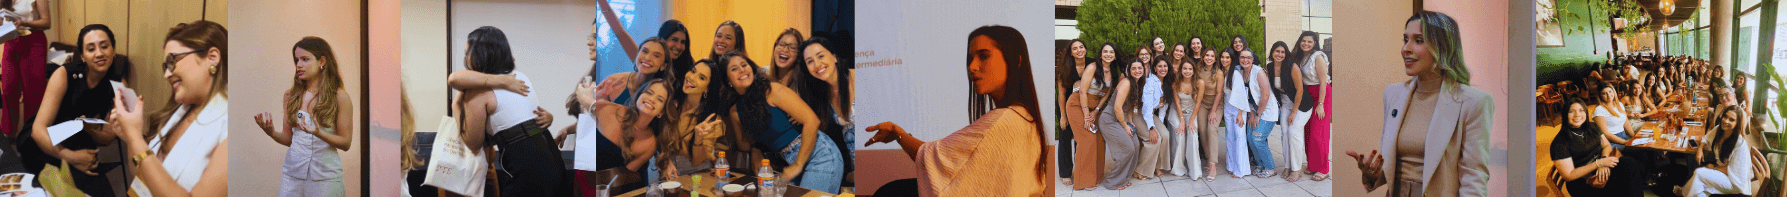
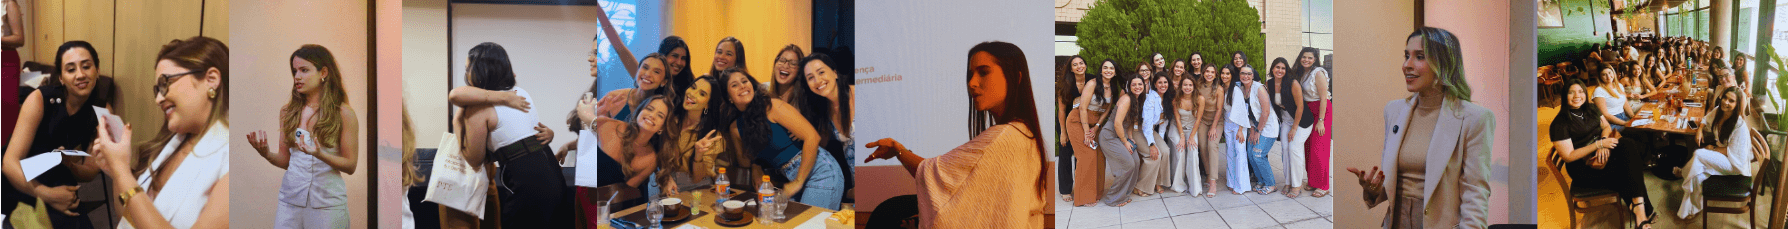
Melhoria das imagens

diff --git a/assets/css/medias.css b/assets/css/medias.css
@@ -295,7 +295,7 @@
             padding: 0;
 
             h1 {
-              font-size: 2.2em;
+              font-size: 2em;
             }
           }
         }
@@ -305,7 +305,7 @@
         padding: 100px 40px;
 
         .testimonials-header h1 {
-          font-size: 2.8em;
+          font-size: 2em;
         }
 
         .testimonial-slider {
@@ -460,7 +460,7 @@
 
           .pts-text-container {
             h1 {
-              font-size: 2.5em;
+              font-size: 2.25em;
             }
 
             h3 {
@@ -471,7 +471,7 @@
           .pts-image-container {
             img {
               border-radius: 24px;
-              clip-path: polygon(10% 0%, 100% 0%, 90% 100%, 0% 100%);
+              clip-path: polygon(6% 0%, 100% 0%, 94% 100%, 0% 100%);
             }
           }
         }
@@ -523,7 +523,7 @@
         .benefits-content {
           .benefits-text-container {
             h1 {
-              font-size: 2.8em;
+              font-size: 2.25em;
             }
 
             ul li {
@@ -535,7 +535,7 @@
 
       &#testimonials-section {
         .testimonials-header h1 {
-          font-size: 3.2em;
+          font-size: 2.25em;
         }
 
         .testimonial-slider {
@@ -591,7 +591,7 @@
             padding: 0;
 
             h1 {
-              font-size: 2.5em;
+              font-size: 2.75em;
             }
 
             h3 {
@@ -627,7 +627,7 @@
             padding: 0;
 
             h1 {
-              font-size: 2.5em;
+              font-size: 2.75em;
             }
 
             h3 {

diff --git a/index.html b/index.html
@@ -75,7 +75,7 @@
           <h3>Porque tão importante quanto saber o que fazer na sessão, é saber como cuidar da sua carreira, do seu consultório e da sua vida profissional.</h3>
         </div>
         <div class="pts-image-container">
-            <img src="https://external-content.duckduckgo.com/iu/?u=https%3A%2F%2Fmedia.istockphoto.com%2Fid%2F1192760767%2Fpt%2Ffoto%2Fdark-saturated-burgundy-watercolor-background-with-torn-strokes-and-uneven-spots-trend-color.jpg%3Fs%3D612x612%26w%3D0%26k%3D20%26c%3DqQkmRQBOrcnULVjLeP_IE3JFFguVwysV66U3g5FDXi8%3D&f=1&nofb=1&ipt=f84cdb0ee0c5ce8fa2002ea0dfebf7f550dc2cac3d1b5098c65abc62b5a8f14c" alt="Imagem aleatoria para teste">
+            <img src="./assets/images/turmapts1.png" alt="Imagem aleatoria para teste">
         </div>
       </div>
     </section>

diff --git a/assets/css/global.css b/assets/css/global.css
@@ -218,7 +218,7 @@ main {
         left: 0;
         width: 100%;
         height: 100%;
-        background-image: url('../images/teexture-sand.jpg');
+        background-image: url('../images/texture-sand.jpg');
         background-size:  1024px;
         background-position: center center;
         background-repeat: repeat;
@@ -247,7 +247,7 @@ main {
       picture {
         .divider {
           display: block;
-          width: 100vw;
+          width: 105vw;
           height: auto;
           object-fit: cover;
           box-shadow: none;
